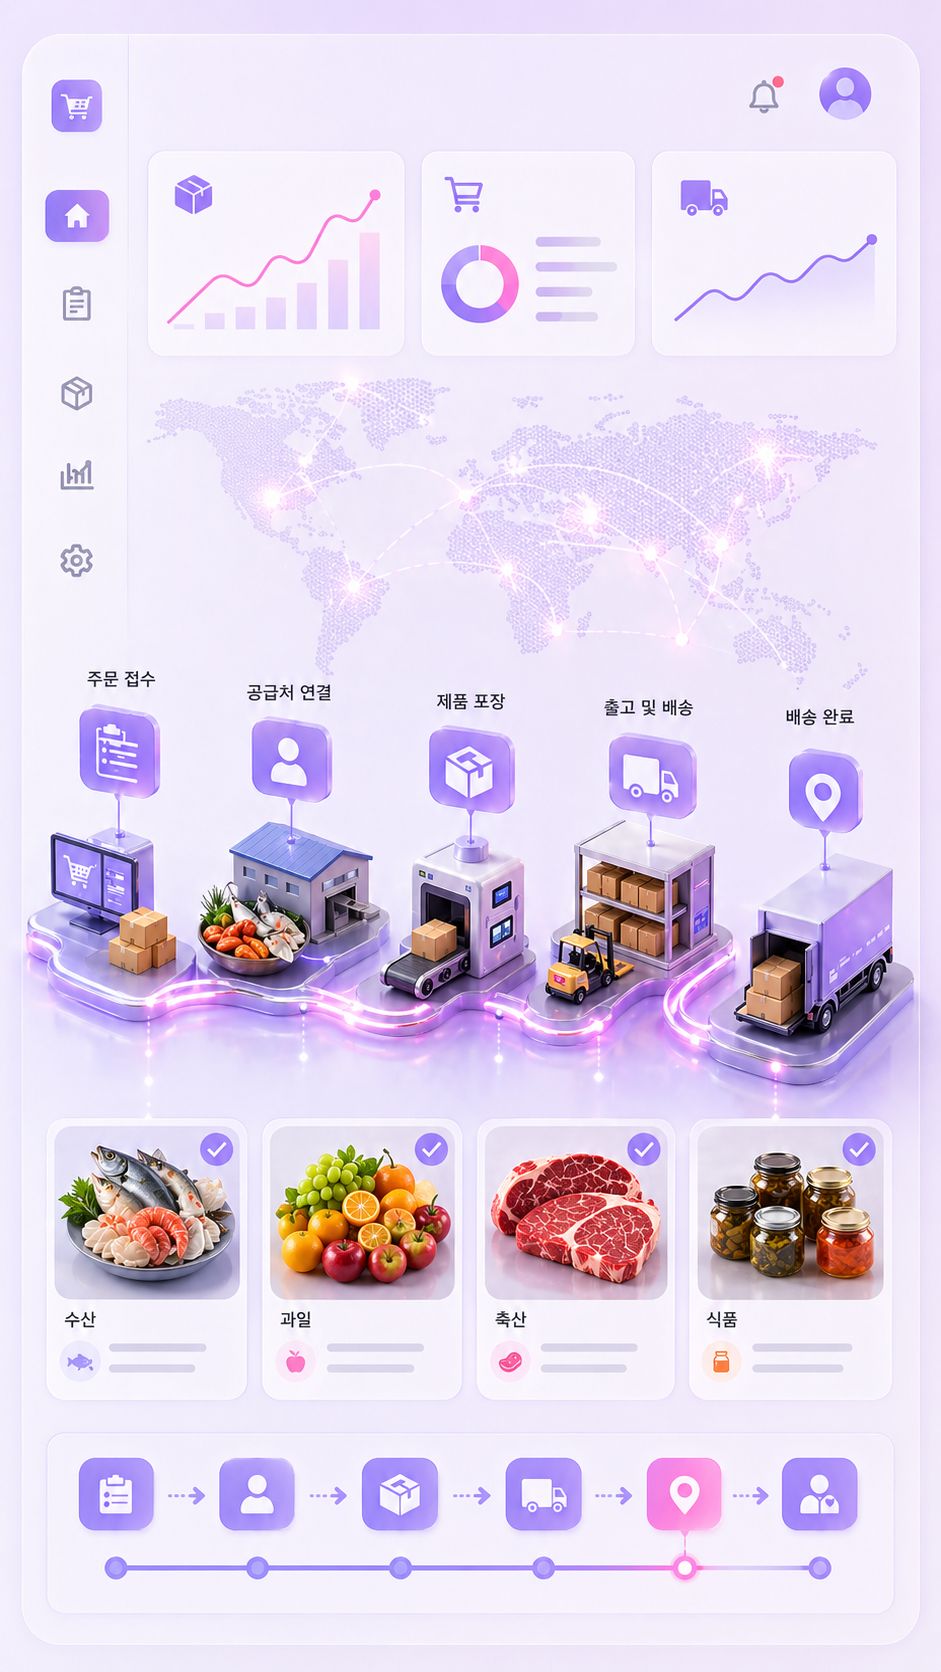
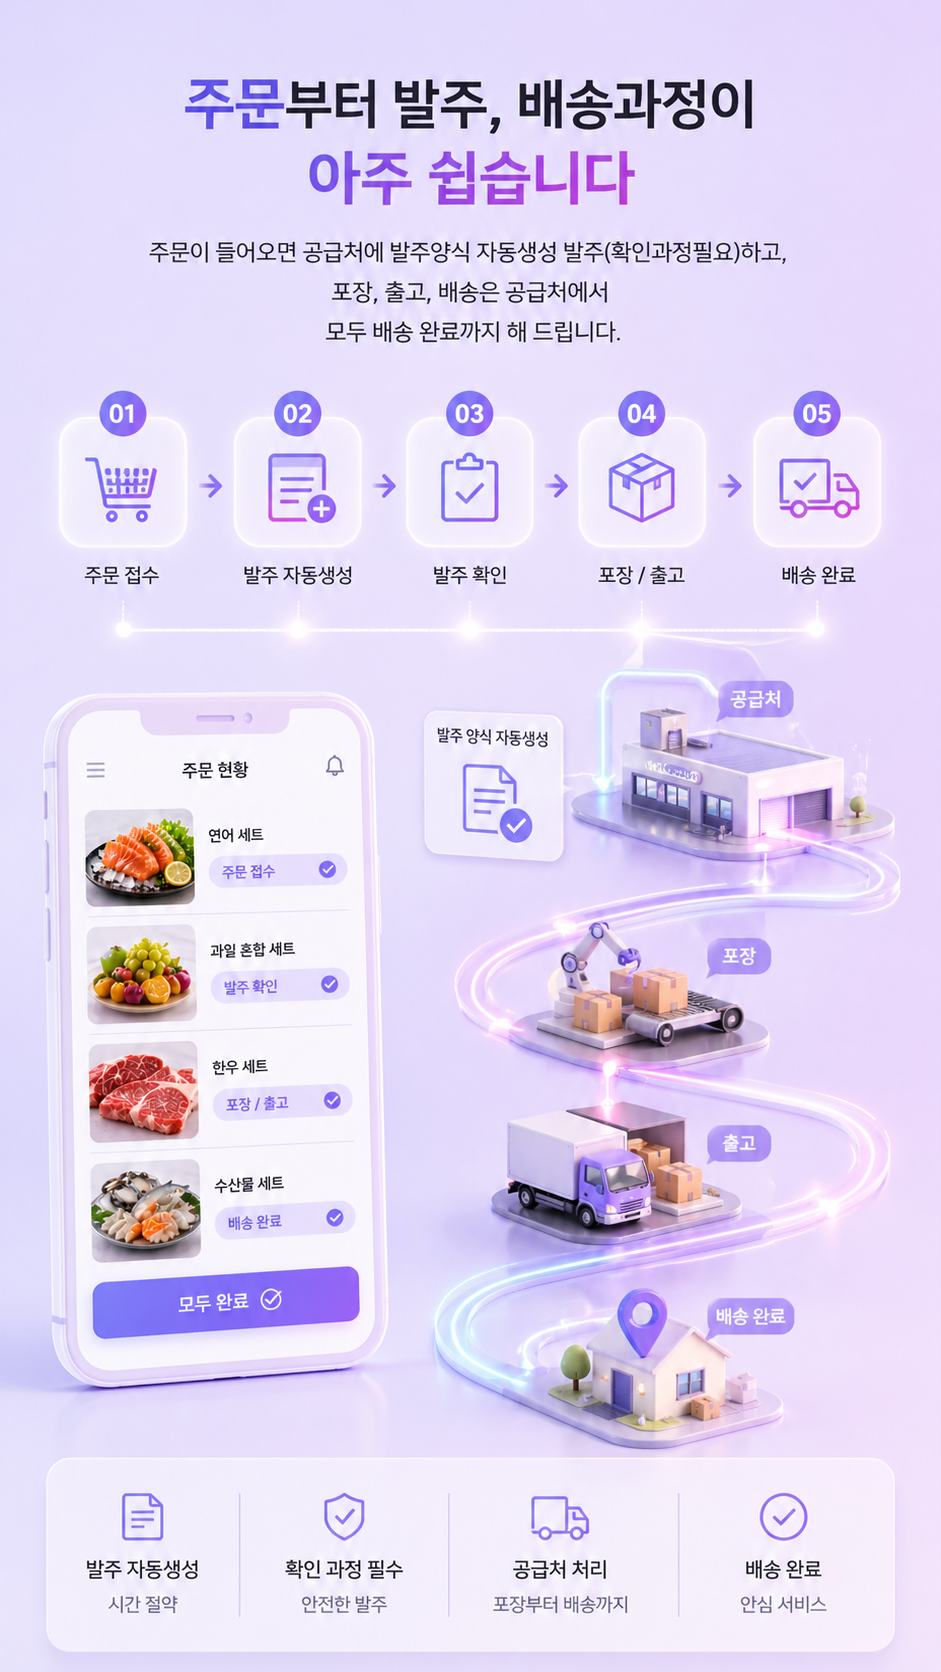
fix: 발주배송 섹션 문구 수정 + logistics-flow 이미지 교체

diff --git a/index.html b/index.html
@@ -1947,8 +1947,8 @@ footer {
           <div class="feature-step">STEP 05 · 발주</div>
           <h3 class="feature-title">주문·발주 자동 처리</h3>
           <p class="feature-desc">
-            완전 자동 완성. 주문이 들어오면 발주까지 자동으로 처리.
-            판매 이후도 손 하나 안 댑니다.
+            발주·배송 자동 완성. 주문이 들어오면 발주양식 자동생성,
+            포장·출고·배송은 공급처에서 완료해 드립니다.
           </p>
           <span class="feature-link">
             자세히 보기
@@ -2151,14 +2151,14 @@ footer {
     <div class="container">
       <div class="logistics-section">
         <div class="reveal">
-          <div class="section-tag">📦 완전 자동 완성</div>
+          <div class="section-tag">📦 발주. 배송 자동 완성</div>
           <h2 class="section-title">
-            주문부터 배송까지<br />
-            <span class="accent">손 하나 안 댑니다</span>
+            주문부터 발주, 배송과정이<br />
+            <span class="accent">아주 쉽습니다</span>
           </h2>
           <p class="section-desc" style="margin-bottom:0;">
-            주문이 들어오면 자동으로 공급처에 발주,
-            포장, 출고, 배송 완료까지 전 과정이 자동으로 연결됩니다.
+            주문이 들어오면 공급처에 발주양식 자동생성 발주(확인과정필요)하고,
+            포장, 출고, 배송은 공급처에서 모두 배송 완료까지 해 드립니다.
           </p>
 
           <div class="logistics-steps">
